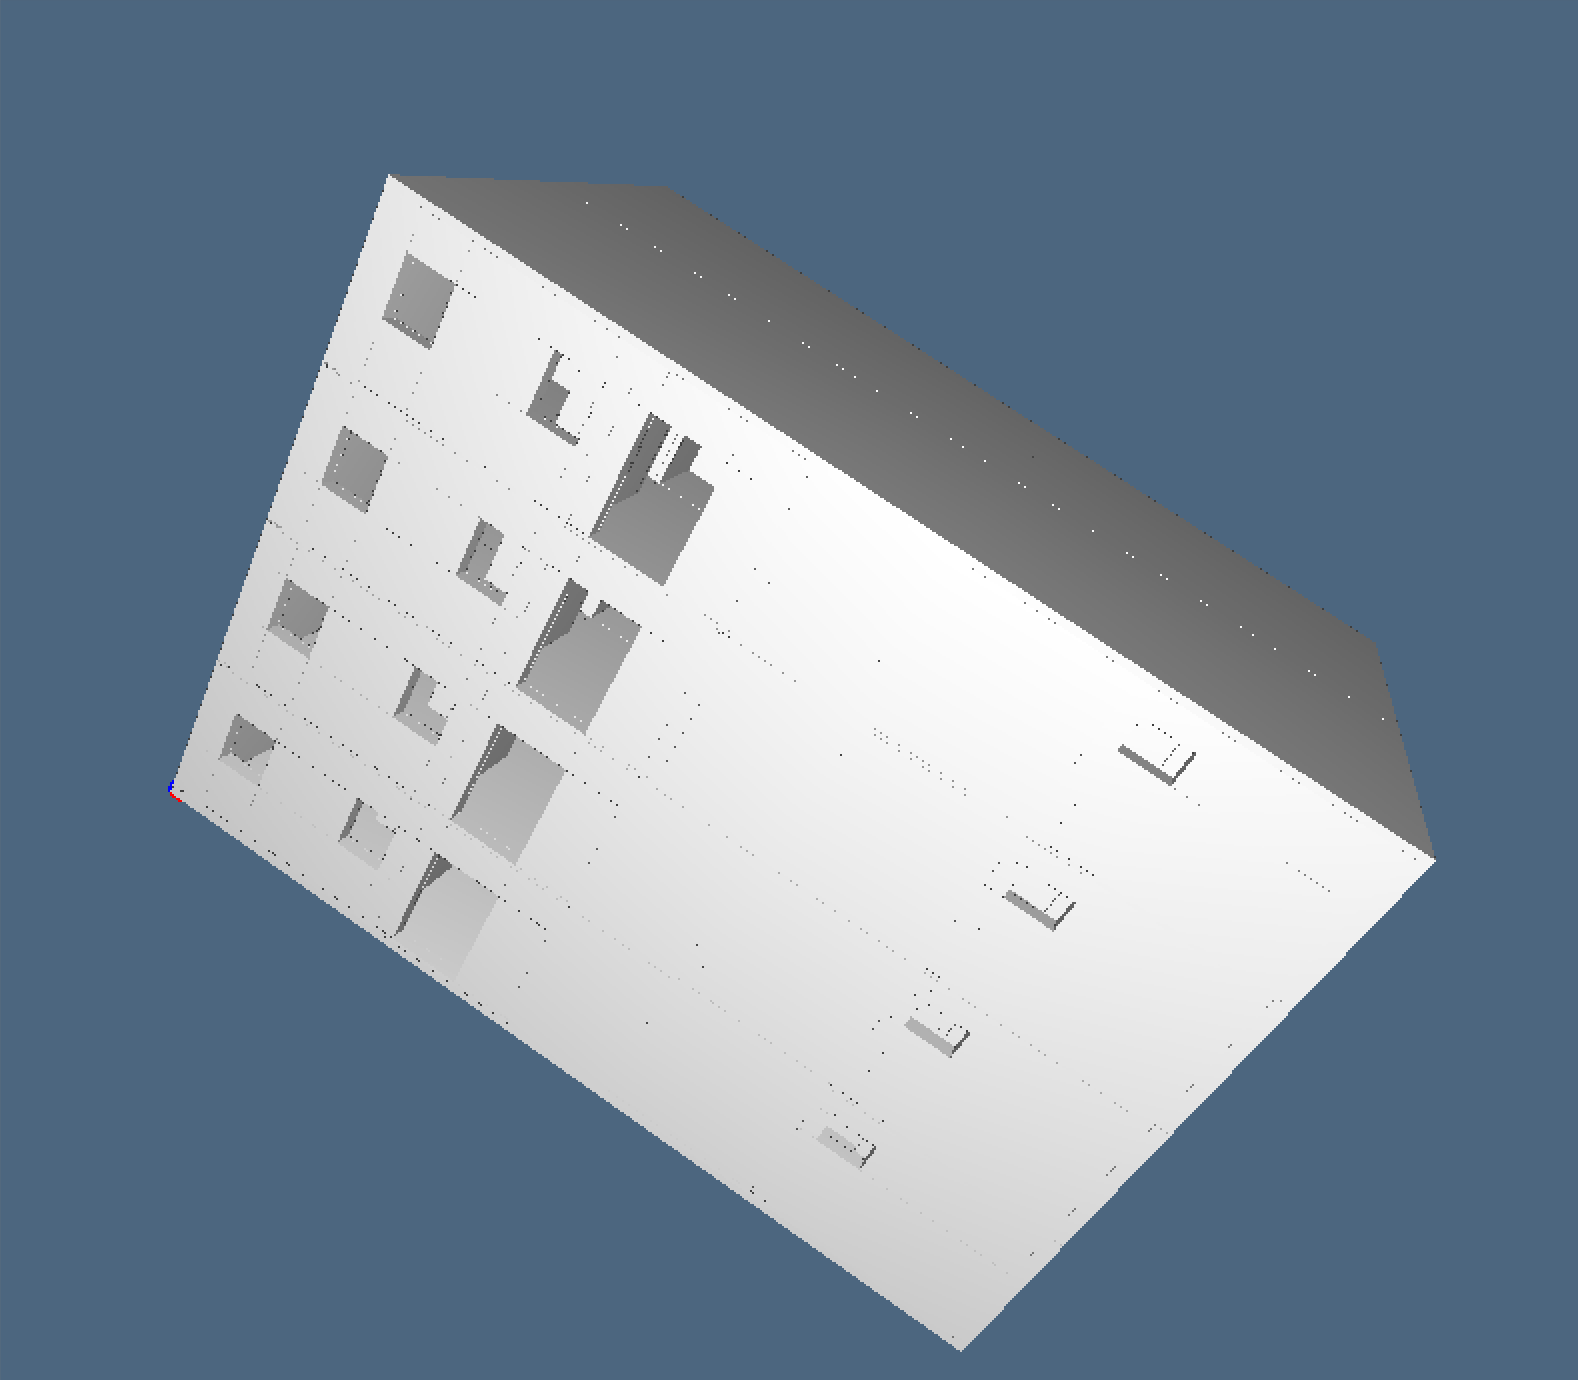
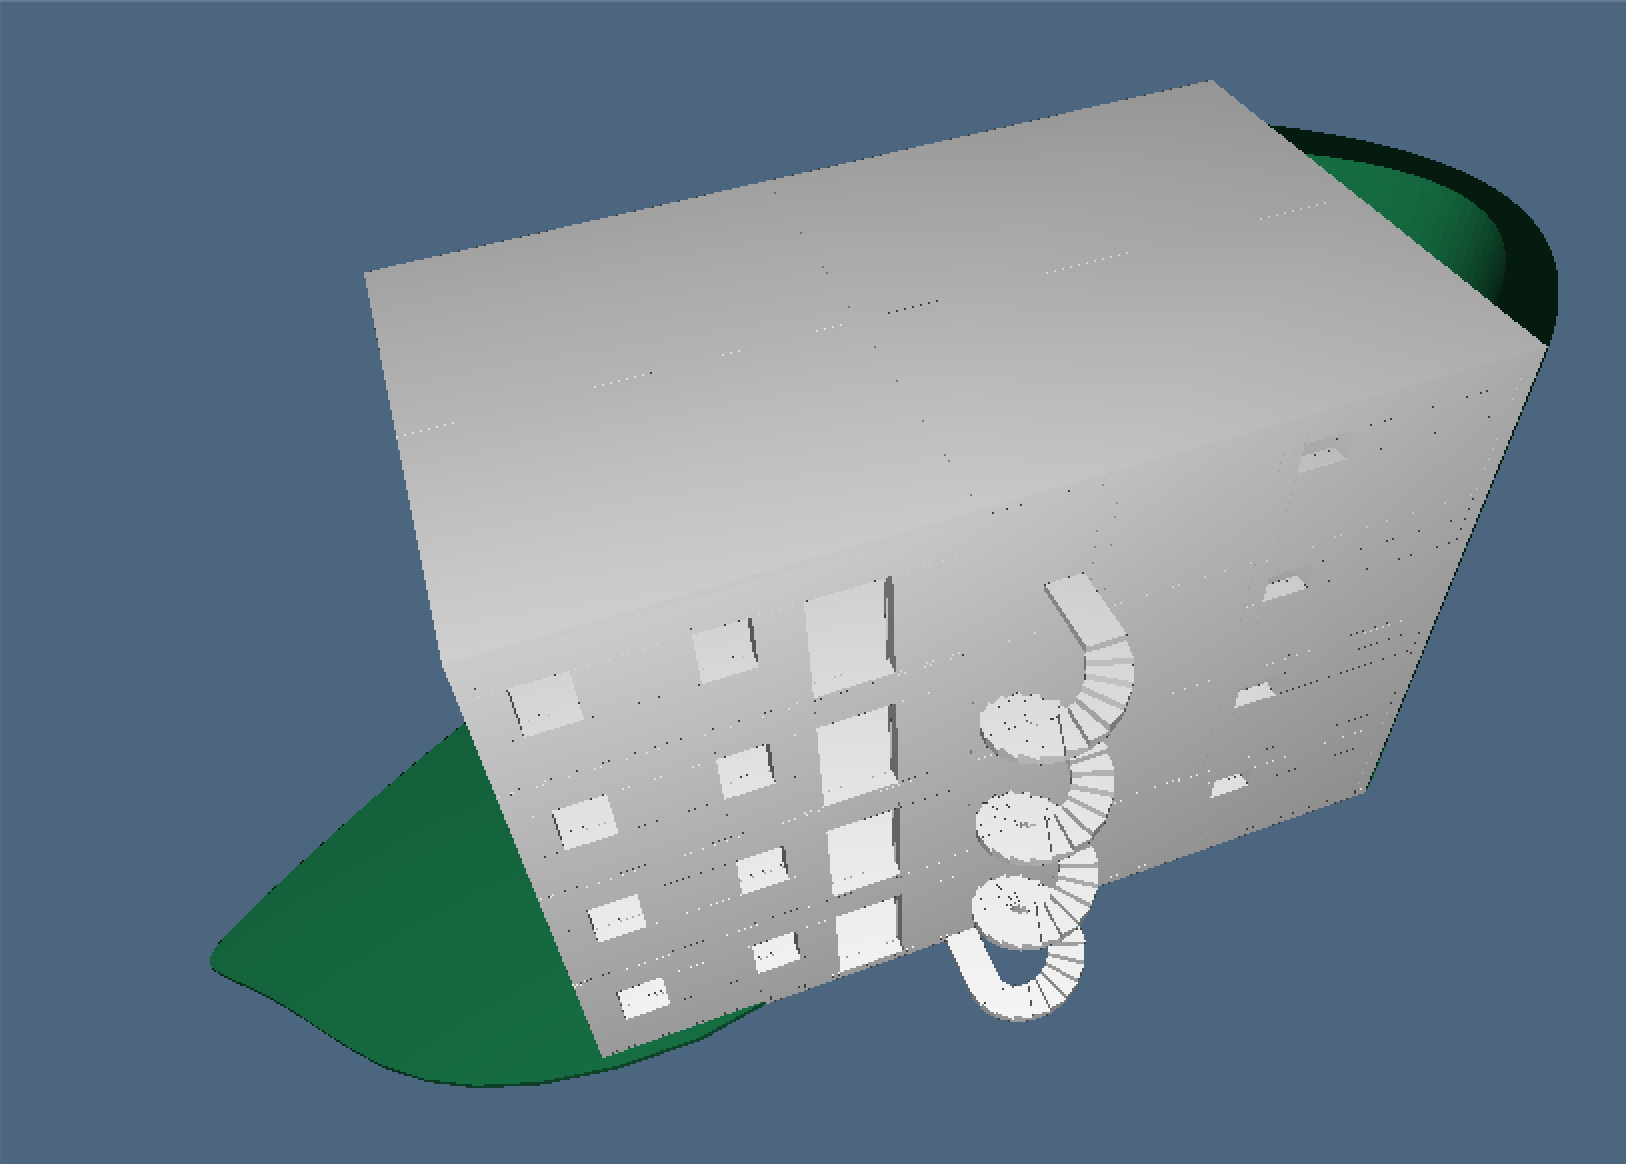
secondo commit

diff --git a/2014-05-16/index.html b/2014-05-16/index.html
@@ -93,7 +93,7 @@
 <h3> University ID: 441484  </h3>
 </p>
 Note:
-<p> Segue l'esposizione del terzo homework. In fondo alla pagina sono mostrate alcune immagini del lavoro svolto. </p> 
+<p> Segue l'esposizione del terzo homework. In fondo alla pagina sono mostrate alcune immagini del lavoro svolto, insieme alla descrizione di ognuno degli esercizi pratici svolti. </p> 
 							<footer>
 								<a href="#homework" class="button scrolly">Start</a>
 							</footer>
@@ -121,8 +121,7 @@ Note:
 <ul>
 <li><a href="python/exercise1.py">Esercizio 1</a></li>
 <li><a href="python/exercise2.py">Esercizio 2</a></li>
-<li><a href="#">Esercizio 3</a></li>
-<li><a href="#">Esercizio 4</a></li>
+<li><a href="python/exercise3.py">Esercizio 3</a></li>
 
 </ul>
 </nav></div>
@@ -132,7 +131,7 @@ Note:
 								<div class="15u">
 									<article class="item">
 										</br><p>Esercizio 1:</p>
-Il primo esercizio 
+Il primo esercizio è stato svolto costruendo un blocco alla volta (cucina, salone, bagno ecc...) e farne il merge con la costruzione rappresentante la struttura esterna. Successivamente sono stati rimosse porte e finestre. Ovviamente è stato omesso il tetto in quanto avrebbe ostruito la visuale dall'altro del rendering 3D.
 									</article>
 								</div>           
                                 </div>
@@ -140,7 +139,7 @@ Il primo esercizio
 								<div class="15u">
                                 <article class="item">
 									<p>Esercizio 2: </p>
- Il secondo esercizio
+ Nel secondo esercizio l'appartamente costruito è stato replicato in un palazzo e opportunamente ruotato per far sì che sia simmetrico e che la porta d'ingresso di ogni appartamento sia rivolta verso l'interno del palazzo. Successivamente il palazzo è stato contornato di un praticello di superficie curva, di una moderna struttura semicircolare e di una scala circolare antincendio esterna.
 									</article>
                                 
                                 </div>
@@ -151,14 +150,14 @@ Il primo esercizio
 
 
                                 <article class="item">
-<p>Esercizio 3: ...</p>
+<p>Esercizio 3:</p> Com'è stato richiesto l'esercizio 3 ha previsto una ridefinizione di alcune funzioni del modulo sysml permettendo un processo più rapido per fare il merging, il cellNumbering che permettesse la selezione di uno o più blocchi da eliminare e l'eliminazione stessa. Sono stati utilizzati due approcci ugualmente funzionanti. Il primo prevede che l'utente fornisca per mezzo di input da tastiera le celle da rimuovere dopo averne visualizzato i numeri dei blocchi (i numeri aggiornati dal merging). Il secondo approccio utilizzato è quello funzionale. Infatti è possibile chiamare la funzione "MERGE_AND_REMOVE" passandogli i parametri obbligatori, la quale resituisce una funzione. Se tale funzione viene invocata senza attributi, vengono queste chieste da input le informazioni sulle celle da rimuovere, altrimenti utilizza un array passatogli per farne un'eliminazione diretta, come si può vedere eseguendo il file. Lo stesso discorso vale per la funzione "REMOVE_CELL". Inoltre è stata modificata la funzione "cellNumbering" affinché possa mostrare all'utente il solo diagramma per cui effettuare il merge, con i numeri esatti delle celle che avrà dopo il merge, per poter così effettuare una scelta precisa sulle celle da escludere.   
 </article></div></div><div class="row">
 								<div class="15u">
 
 
                                 <article class="item">
 
-<p>Esercizio 4: ...</p></article>
+<p></p></article>
 
 
 </div></div>
@@ -223,7 +222,7 @@ Il primo esercizio
 									</div>			
                                 <div class="6u">
 									<article class="item">
-										
+										<a target="_blank" href="#" class="image full"><img src="images/fig06.png" alt="" /></a>
                                         
 									</article>
 									</div>

diff --git a/2014-05-16/css/style.css b/2014-05-16/css/style.css
@@ -1333,7 +1333,7 @@ transition:0.5s ease-out;
 	}
 	#menu ul li{
 		font-size:80%;
-		width:25%;
+		width:33%;
 	}
 }
 /* visualizzazione per schermi con risoluzione a 1024 px per esempio netbook o tablet in visione orizzontale */

diff --git a/2014-05-16/python/exercise3.py b/2014-05-16/python/exercise3.py
@@ -1,0 +1,184 @@
+import sys
+""" import modules from lar-cc/lib """
+sys.path.insert(0, '/Users/Amirs/Desktop/grafica computazionale/lar-cc/lib/py')
+
+
+from sysml import *
+
+
+
+
+
+
+def MERGE_AND_REMOVE(shape, size,toMerge,master):
+	cellDiagram=1
+	for v in shape:
+		cellDiagram=cellDiagram*v
+	diagram = assemblyDiagramInit(shape)(size)
+	minBlock = len(master[1])-1
+	master = diagram2cell(diagram,master,toMerge) 
+	hpc = SKEL_1(STRUCT(MKPOLS(diagram)))
+	totalBlocks = minBlock+cellDiagram
+	hpc = SKEL_1(STRUCT(MKPOLS(master)))
+	hpc = cellNumbering (master,hpc)(range(len(master[1])),CYAN,2)
+	VIEW(hpc)
+	hpc = SKEL_1(STRUCT(MKPOLS(diagram)))
+	hpc = cellNumbering (diagram,hpc)(range(minBlock, totalBlocks),CYAN,2)
+	VIEW(hpc)
+	scelta = []
+	v = False
+   	while v == False:
+	    i = input("Enter a number: (scrivere -1 per uscire) ")
+	    if len(scelta) == 0:
+	    	v = True
+	    scelta.append(i)
+	master = master[0], [cell for k,cell in enumerate(master[1]) if not (k in scelta)] 
+	hpc = STRUCT(MKPOLS(master))
+	VIEW(hpc)
+	return master
+
+
+
+
+def REMOVE_CELL(master):
+
+	hpc = SKEL_1(STRUCT(MKPOLS(master)))
+	hpc = cellNumbering (master,hpc)(range(len(master[1])),CYAN,2)
+
+	VIEW(hpc)
+	scelta = []
+	v=False
+   	while v==False:
+	    i = input("Enter a number: (scrivere -1 per uscire) ")
+	    if len(scelta) == 0:
+	    	v=True
+	    scelta.append(i)
+	master = master[0], [cell for k,cell in enumerate(master[1]) if not (k in scelta)] 
+	hpc = STRUCT(MKPOLS(master))
+	VIEW(hpc)
+	return master
+
+
+
+
+
+def REMOVE_CELL(master):
+	hpc = SKEL_1(STRUCT(MKPOLS(master)))
+	hpc = cellNumbering (master,hpc)(range(len(master[1])),CYAN,2)
+	VIEW(hpc)
+	def REMOVE_CELL0(scelta=[]):
+		if len(scelta) == 0:
+			v=True
+   			while v == True:
+   				i = input("Enter a number: (scrivere -1 per uscire) ")
+	    		if(i < 0):
+	    			v=False
+	    		scelta.append(i)
+		master1 = master[0], [cell for k,cell in enumerate(master[1]) if not (k in scelta)] 
+		hpc = STRUCT(MKPOLS(master1))
+		VIEW(hpc)
+		return master1
+	return REMOVE_CELL0
+
+
+
+
+
+def MERGE_AND_REMOVE(shape, size,toMerge,master):
+	cellDiagram=1
+	for v in shape:
+		cellDiagram=cellDiagram*v
+	diagram = assemblyDiagramInit(shape)(size)
+	minBlock = len(master[1])-1
+	totalBlocks = minBlock+cellDiagram
+	master = diagram2cell(diagram,master,toMerge) 
+	def MERGE_AND_REMOVE0(scelta=[]):
+		if len(scelta) == 0:
+			hpc = SKEL_1(STRUCT(MKPOLS(master)))
+			hpc = cellNumbering (master,hpc)(range(len(master[1])),CYAN,2)
+			VIEW(hpc)
+			hpc = SKEL_1(STRUCT(MKPOLS(diagram)))
+			hpc = cellNumbering (diagram,hpc)(range(minBlock, totalBlocks),CYAN,2)
+			VIEW(hpc)
+			v=True
+			while v==True:
+   				i = input("Enter a number: (scrivere -1 per uscire) ")
+	    		if(i < 0):
+	    			v=False
+	    		scelta.append(i)
+		master1 = master[0], [cell for k,cell in enumerate(master[1]) if not (k in scelta)] 
+		hpc = STRUCT(MKPOLS(master1))
+		VIEW(hpc)
+		return master1
+	return MERGE_AND_REMOVE0
+
+
+
+def VIEW_MODEL(master):
+	hpc = SKEL_1(STRUCT(MKPOLS(master)))
+	hpc = cellNumbering (master,hpc)(range(len(master[1])),CYAN,2)
+	VIEW(hpc)
+
+
+""" Drawing numbers of cells """
+def cellNumbering (larModel,hpcModel):
+   V,CV = larModel
+   def cellNumbering0 (cellSubset,color=WHITE,scalingFactor=1):
+      text = TEXTWITHATTRIBUTES (TEXTALIGNMENT='centre', TEXTANGLE=0, 
+                     TEXTWIDTH=0.1*scalingFactor, 
+                     TEXTHEIGHT=0.2*scalingFactor, 
+                     TEXTSPACING=0.025*scalingFactor)
+      hpcList = [hpcModel]
+      i =0
+      for cell in cellSubset:
+         point = CCOMB([V[v] for v in CV[i]])
+         hpcList.append(T([1,2,3])(point)(COLOR(color)(text(str(cell)))))
+         i=i+1
+      return STRUCT(hpcList)
+   return cellNumbering0
+
+
+
+
+
+
+
+
+
+
+DRAW = COMP([VIEW,STRUCT,MKPOLS])
+
+master = assemblyDiagramInit([7,5,2])([[.3,4,.3,3.2,.1,5,.3],[.3,4,.1,2.9,.3],[.3,2.7]])
+
+
+master = REMOVE_CELL(master)([13,17,37,33,53,57])
+
+
+# per farlo manualmente
+#master = REMOVE_CELL(master)()
+
+
+
+VIEW_MODEL(master)
+
+
+
+# QUESTA FUNZIONE VISUALIZZA I CELLNUMBERS E FA SCEGLIERE ALL'UTENTE QUALI E QUANTI BLOCCHI ELIMINARE
+#master=MERGE_AND_REMOVE([3,1,2],[[2,1,2],[.3],[2.2,.5]],47,master)()
+# 65
+
+
+
+master=MERGE_AND_REMOVE([3,1,2],[[2,1,2],[.3],[2.2,.5]],47,master)([65])
+
+
+
+
+
+#master= MERGE_AND_REMOVE([5,1,3],[[1.5,0.9,.2,.9,1.5],[.3],[1,1.4,.3]],52,master)()
+# 71 e 77
+
+master= MERGE_AND_REMOVE([5,1,3],[[1.5,0.9,.2,.9,1.5],[.3],[1,1.4,.3]],52,master)([71,77])
+
+
+

diff --git a/2014-05-16/python/exercise1.py b/2014-05-16/python/exercise1.py
@@ -23,20 +23,20 @@ hpc = cellNumbering (master,hpc)(range(len(CV)),CYAN,2)
 
 
 toMerge = 17
-cell = MKPOL([master[0],[[v+1 for v in  master[1][toMerge]]],None])  # solidifica una cella
+cell = MKPOL([master[0],[[v+1 for v in  master[1][toMerge]]],None])  
 #VIEW(STRUCT([hpc,cell]))     
 
 # 
 
 
 diagram = assemblyDiagramInit([3,1,1])([[0.2,3.2,7.8],[1.2],[10.5]])
-master = diagram2cell(diagram,master,toMerge)   # ha fatto la porta che e' alzata a partire dalla cella
+master = diagram2cell(diagram,master,toMerge)   
 hpc = SKEL_1(STRUCT(MKPOLS(master)))
 hpc = cellNumbering (master,hpc)(range(len(master[1])),CYAN,2)
 #VIEW(hpc)
 
 toRemove = [32]
-master = master[0], [cell for k,cell in enumerate(master[1]) if not (k in toRemove)]  # rimuove la cella della porta dal master
+master = master[0], [cell for k,cell in enumerate(master[1]) if not (k in toRemove)]  
 #DRAW(master)
 
 
@@ -57,20 +57,20 @@ hpc = cellNumbering (master,hpc)(range(len(master[1])),CYAN,2)
 #finestra salone
 
 toMerge = 26
-cell = MKPOL([master[0],[[v+1 for v in  master[1][toMerge]]],None])  # solidifica una cella
+cell = MKPOL([master[0],[[v+1 for v in  master[1][toMerge]]],None]) 
 #VIEW(STRUCT([hpc,cell]))     
 
 # 
 
 
 diagram = assemblyDiagramInit([1,3,2])([[1],[3.8,4.8,1.4],[8,2.5]])
-master = diagram2cell(diagram,master,toMerge)   # ha fatto la porta che e' alzata a partire dalla cella
+master = diagram2cell(diagram,master,toMerge)   
 hpc = SKEL_1(STRUCT(MKPOLS(master)))
 hpc = cellNumbering (master,hpc)(range(len(master[1])),CYAN,2)
 #VIEW(hpc)
 
 toRemove = [34]
-master = master[0], [cell for k,cell in enumerate(master[1]) if not (k in toRemove)]  # rimuove la cella della porta dal master
+master = master[0], [cell for k,cell in enumerate(master[1]) if not (k in toRemove)]  
 #DRAW(master)
 
 
